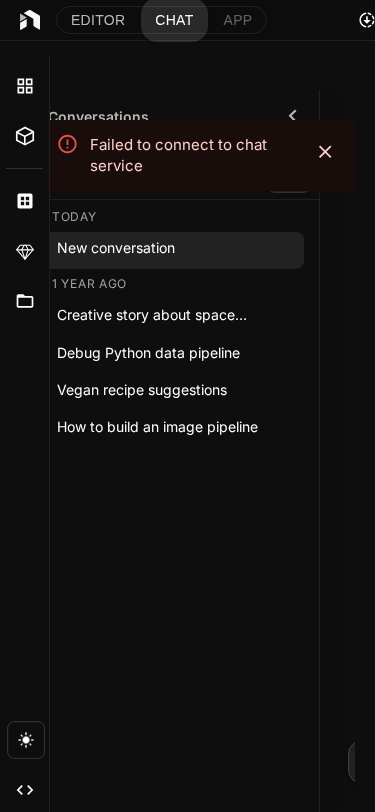
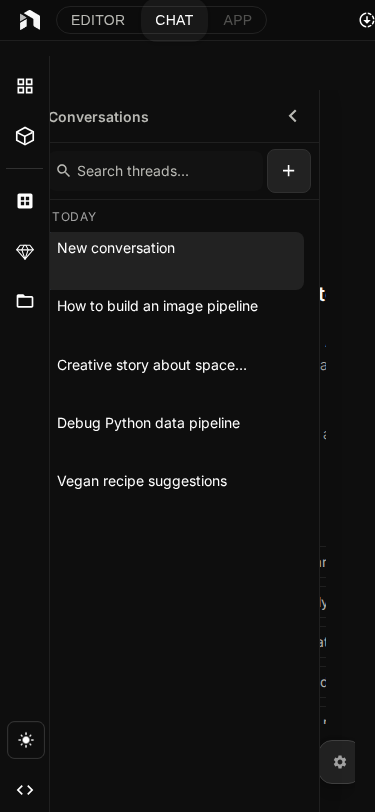
feat: add new screenshots captured with real backend and fix tsx path bug
- Fix REPO_ROOT path in globalSetup.ts (web/tests/../.. = repo root, not ../../..)
- Fall back to public DB workflows in handleWorkflowExamples/Search when no
  Python package metadata is available (enables templates grid in screenshot mode)
- Rebuild better-sqlite3 for Node 20, build all packages, run FORCE_SCREENSHOTS
- All 14 screenshots regenerated with real backend (606 nodes, seeded mock data)

Agent-Logs-Url: https://github.com/nodetool-ai/nodetool/sessions/bbaa8bbe-6a59-4d1e-b9ae-bb1fb0004984

diff --git a/packages/websocket/src/http-api.ts b/packages/websocket/src/http-api.ts
@@ -537,6 +537,14 @@ export async function handleWorkflowExamples(
     return errorResponse(405, "Method not allowed");
   }
   const workflows = buildExampleWorkflows(options);
+  // When no Python packages provide examples (e.g. standalone / screenshot mode),
+  // fall back to public workflows stored in the database so the templates grid
+  // is populated rather than empty.
+  if (workflows.length === 0) {
+    const [dbWorkflows] = await Workflow.paginatePublic({ limit: 50 });
+    const fallback = dbWorkflows.map((wf) => toWorkflowResponse(wf));
+    return jsonResponse({ workflows: fallback, next: null });
+  }
   return jsonResponse({ workflows, next: null });
 }
 
@@ -550,8 +558,15 @@ export async function handleWorkflowExamplesSearch(
   const url = new URL(request.url);
   const query = (url.searchParams.get("query") ?? "").toLowerCase().trim();
   const workflows = buildExampleWorkflows(options);
+  // Same DB fallback as handleWorkflowExamples above
+  const source: unknown[] =
+    workflows.length > 0
+      ? workflows
+      : (await Workflow.paginatePublic({ limit: 50 }))[0].map((wf) =>
+          toWorkflowResponse(wf)
+        );
   const filtered = query
-    ? workflows.filter((w) => {
+    ? source.filter((w) => {
         const wf = w as Record<string, unknown>;
         const name = String(wf.name ?? "").toLowerCase();
         const desc = String(wf.description ?? "").toLowerCase();
@@ -562,7 +577,7 @@ export async function handleWorkflowExamplesSearch(
           tags.some((t) => t.toLowerCase().includes(query))
         );
       })
-    : workflows;
+    : source;
   return jsonResponse({ workflows: filtered, next: null });
 }
 

diff --git a/web/tests/globalSetup.ts b/web/tests/globalSetup.ts
@@ -27,7 +27,8 @@ import { fileURLToPath } from "node:url";
 import * as net from "node:net";
 
 const CURRENT_DIR = dirname(fileURLToPath(import.meta.url));
-const REPO_ROOT = resolve(CURRENT_DIR, "../../..");
+// CURRENT_DIR = web/tests — go up two levels to reach the repo root
+const REPO_ROOT = resolve(CURRENT_DIR, "../..");
 const SERVER_SCRIPT = resolve(
   REPO_ROOT,
   "packages/websocket/src/screenshot-server.ts"
